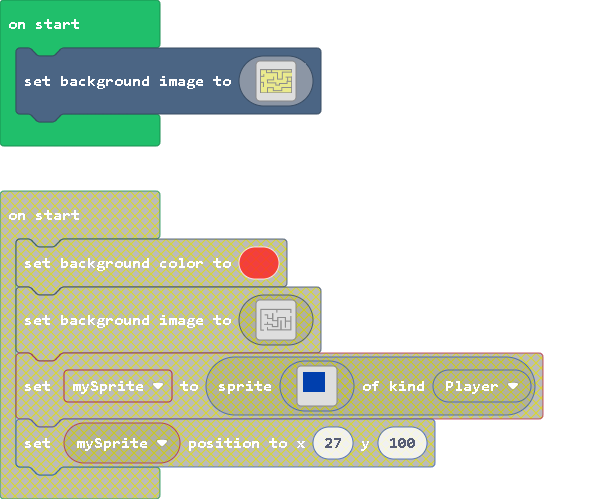
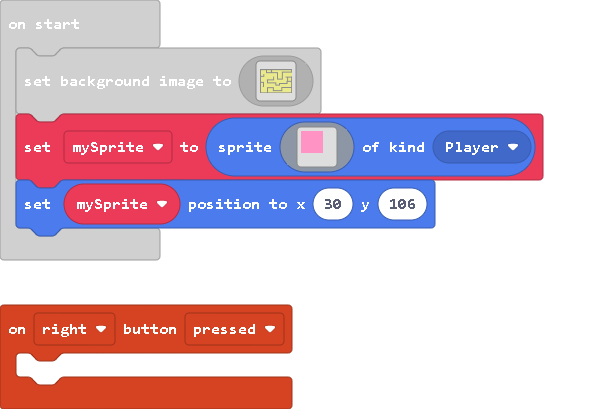
Update main.blocks, main.ts, images.g.jres, images.g.ts

diff --git a/images.g.ts b/images.g.ts
@@ -125,267 +125,23 @@ ffffffffffffffffffffffffffffffffffffffffffffffffffffffffffffffffffffffffffffffff
 ffffffffffffffffffffffffffffffffffffffffffffffffffffffffffffffffffffffffffffffffffffffffffffffffffffffffffffffffffffffffffffffffffffffffffffffffffffffffffffffff
 ffffffffffffffffffffffffffffffffffffffffffffffffffffffffffffffffffffffffffffffffffffffffffffffffffffffffffffffffffffffffffffffffffffffffffffffffffffffffffffffff
 `;
-            case "image2":return img`
-................................................................................................................................................................
-................................................................................................................................................................
-................................................................................................................................................................
-................................................................................................................................................................
-..fffffffffffffffffffffffffffffffffffffffffffffffffffffffffffffffffffffffffffffffffffffffffffffffffffffffffffffffffffffffffffffffffffffffffffffffffffffffffff...
-..fffffffffffffffffffffffffffffffffffffffffffffffffffffffffffffffffffffffffffffffffffffffffffffffffffffffffffffffffffffffffffffffffffffffffffffffffffffffffff...
-..fffffffffffffffffffffffffffffffffffffffffffffffffffffffffffffffffffffffffffffffffffffffffffffffffffffffffffffffffffffffffffffffffffffffffffffffffffffffffff...
-..fffffffffffffffffffffffffffffffffffffffffffffffffffffffffffffffffffffffffffffffffffffffffffffffffffffffffffffffffffffffffffffffffffffffffffffffffffffffffff...
-..fffffffffffffffffffffffffffffffffffffffffffffffffffffffffffffffffffffffffffffffffffffffffffffffffffffffffffffffffffffffffffffffffffffffffffffffffffffffffff...
-..fffffffffffffffffffffffffffffffffffffffffffffffffffffffffffffffffffffffffffffffffffffffffffffffffffffffffffffffffffffffffffffffffffffffffffffffffffffffffff...
-..fffff...........................................................................fffff.................................................................fffff...
-..fffff...........................................................................fffff.................................................................fffff...
-..fffff...........................................................................fffff.................................................................fffff...
-..fffff...........................................................................fffff.................................................................fffff...
-..fffff...........................................................................fffff.................................................................fffff...
-..fffff...........................................................................fffff.................................................................fffff...
-..fffff...........................................................................fffff.................................................................fffff...
-..fffff...........................................................................fffff.................................................................fffff...
-..fffff...........................................................................fffff.................................................................fffff...
-..fffff...........................................................................fffff.................................................................fffff...
-..fffff...........................................................................fffff.................................................................fffff...
-..fffff...........................................................................fffff.................................................................fffff...
-..fffff...........................................................................fffff.................................................................fffff...
-..fffff.................................................................................................................................................fffff...
-..fffff.................................................................................................................................................fffff...
-..fffff.........................................................................................................................................................
-..fffff.....................................................fffffff.............................................................................................
-..fffff.....................................................fffffff.............................................................................................
-..fffff.....................................................fffffff.............................................................................................
-..fffff.....................................................fffffff.............................................................................................
-..fffff.....................................................fffffff.............................................................................................
-..fffff.....................................................fffffff.............................................................................................
-..fffff................ffffffffffffffffff...................fffffff.............................................................................................
-..fffff................ffffffffffffffffff...................fffffff.............................................................................................
-..fffff................ffffffffffffffffff...................fffffff.............................................................................................
-..fffff................ffffffffffffffffff...................fffffff.............................................................................................
-..fffff................ffffffffffffffffff...................fffffff.............................................................................................
-..fffff.............................fffff...................fffffff.............................................................................................
-..fffff.............................fffff...................fffffff.............................................................................................
-..fffff.............................fffff...................fffffff.............................................................................................
-..fffff.............................fffff...................fffffff.....................................................................................fffff...
-..fffff.............................fffff...................fffffff.....................................................................................fffff...
-..fffff.............................fffff...................fffffff.....................................................................................fffff...
-..fffff.............................fffff...................fffffff.....................................................................................fffff...
-..fffff.............................fffff...................fffffff.....................................................................................fffff...
-..fffff.............................fffff...................fffffff...................ffffffffffffffffffffffffffffffffffffffffffff......................fffff...
-..fffff.............................fffff...................fffffff...................ffffffffffffffffffffffffffffffffffffffffffff......................fffff...
-..fffff.............................fffff...................fffffff...................ffffffffffffffffffffffffffffffffffffffffffff......................fffff...
-..fffff.............................fffff...................fffffff...................ffffffffffffffffffffffffffffffffffffffffffff......................fffff...
-..fffff.............................fffff...................fffffff...................ffffffffffffffffffffffffffffffffffffffffffff......................fffff...
-..fffff.............................fffffffffffffffffffffffffffffff...................ffffff................................ffffff......................fffff...
-..fffff.............................fffffffffffffffffffffffffffffff...................ffffff................................ffffff......................fffff...
-..fffff.............................fffffffffffffffffffffffffffffff...................ffffff................................ffffff......................fffff...
-..fffff.............................fffffffffffffffffffffffffffffff...................ffffff................................ffffff......................fffff...
-..fffff.............................fffffffffffffffffffffffffffffff...................ffffff................................ffffff......................fffff...
-..fffff......................................................ffffff...................ffffff................................ffffff......................fffff...
-..fffff......................................................ffffff...................ffffff................................ffffff......................fffff...
-..fffff......................................................ffffff...................ffffff................................ffffff......................fffff...
-..fffff......................................................ffffff...................ffffff................................ffffff......................fffff...
-..fffff......................................................ffffff...................ffffff................................ffffff......................fffff...
-..fffff......................................................ffffff...................ffffff................................ffffff......................fffff...
-..fffff......................................................fffffffffffffffffffffffffffffff................................ffffff......................fffff...
-..fffff......................................................fffffffffffffffffffffffffffffff..........ffffff................ffffff......................fffff...
-..fffff......................................................fffffffffffffffffffffffffffffff..........ffffff................fffffffffffffffffffffffffffffffff...
-..fffff......................................................fffffffffffffffffffffffffffffff..........ffffff................fffffffffffffffffffffffffffffffff...
-..fffff......................................................fffffffffffffffffffffffffffffff..........ffffff................fffffffffffffffffffffffffffffffff...
-..fffff...............................................................................ffffff..........ffffff................fffffffffffffffffffffffffffffffff...
-..fffff...............................................................................ffffff..........ffffff................fffffffffffffffffffffffffffffffff...
-..fffff...............................................................................ffffff..........ffffff................ffffff......................fffff...
-..fffff............................fffff..............................................ffffff..........ffffff................ffffff......................fffff...
-..fffff............................fffff..............................................ffffff..........ffffff................ffffff......................fffff...
-..fffff............................fffff..............................................ffffff..........ffffff................ffffff......................fffff...
-..fffff............................fffff..............................................ffffff..........ffffff................ffffff......................fffff...
-..fffff............................fffff..............................................ffffff..........ffffff................ffffff......................fffff...
-..fffff............................fffff..............................................ffffff..........ffffff................ffffff......................fffff...
-..fffff............................fffff..............................................ffffff..........ffffff................ffffff......................fffff...
-..fffff............................fffff..............................................ffffff..........ffffff................ffffff......................fffff...
-..fffff............................fffff..............................................ffffff..........ffffff................ffffff......................fffff...
-..fffff............................fffff..............................................ffffff..........ffffff................ffffff......................fffff...
-..fffff..............ffffffffffffffffffffffffffffffffffffffffffff.....................ffffff..........ffffff................ffffff......................fffff...
-..fffff..............ffffffffffffffffffffffffffffffffffffffffffff.....................ffffff..........ffffff................ffffff......................fffff...
-..fffff..............ffffffffffffffffffffffffffffffffffffffffffff.....................ffffff..........ffffff................ffffff......................fffff...
-..fffff..............ffffffffffffffffffffffffffffffffffffffffffff.....................ffffff..........ffffff................ffffff......................fffff...
-..fffff..............ffffffffffffffffffffffffffffffffffffffffffff.....................ffffff..........ffffff................ffffff......................fffff...
-..fffff....................................................ffffff.....................ffffff..........ffffff................ffffff......................fffff...
-..fffff....................................................ffffff.....................ffffff..........ffffff................ffffff......................fffff...
-..fffff....................................................ffffff.....................ffffff..........ffffff................ffffff......................fffff...
-..fffff....................................................ffffff.....................ffffff..........ffffff................ffffff......................fffff...
-..fffff....................................................ffffff.....................ffffff..........ffffff................ffffff......................fffff...
-..fffff....................................................ffffff.....................ffffff..........ffffff................ffffff......................fffff...
-..fffff....................................................fffffffffffffffffffffffffffffffff..........ffffff................ffffff......................fffff...
-..fffff....................................................fffffffffffffffffffffffffffffffff..........ffffff................ffffff......................fffff...
-..fffff....................................................fffffffffffffffffffffffffffffffff..........ffffff................ffffff......................fffff...
-..fffff....................................................fffffffffffffffffffffffffffffffff..........ffffff................ffffff......................fffff...
-..fffff....................................................fffffffffffffffffffffffffffffffff..........ffffff................ffffff......................fffff...
-..fffff....................................................fffffffffffffffffffffffffffffffff..........ffffff................ffffff......................fffff...
-..fffff............................fffff..............................................................ffffff................ffffff......................fffff...
-..fffff............................fffff..............................................................ffffff................ffffff......................fffff...
-..fffff............................fffff..............................................................ffffff............................................fffff...
-..fffff............................fffff..............................................................ffffff............................................fffff...
-..fffff............................fffff..............................................................ffffff............................................fffff...
-..fffff............................fffff..............................................................ffffff............................................fffff...
-..fffff............................fffff..............................................................ffffff............................................fffff...
-..fffff............................fffff..............................................................ffffff............................................fffff...
-..fffff............................fffff..............................................................ffffff............................................fffff...
-..fffff............................fffff..............................................................ffffff............................................fffff...
-..fffff............................fffff..............................................................ffffff............................................fffff...
-..fffff............................ffffffffffffffffffffffffffffffffffffffffffffffffffffffffffffffffffffffffffffffffffffffffffffffffffffffffffffffffffffffffff...
-..ffffffffffffffffff...............ffffffffffffffffffffffffffffffffffffffffffffffffffffffffffffffffffffffffffffffffffffffffffffffffffffffffffffffffffffffffff...
-..ffffffffffffffffff...............ffffffffffffffffffffffffffffffffffffffffffffffffffffffffffffffffffffffffffffffffffffffffffffffffffffffffffffffffffffffffff...
-..ffffffffffffffffff...............ffffffffffffffffffffffffffffffffffffffffffffffffffffffffffffffffffffffffffffffffffffffffffffffffffffffffffffffffffffffffff...
-..ffffffffffffffffff...............ffffffffffffffffffffffffffffffffffffffffffffffffffffffffffffffffffffffffffffffffffffffffffffffffffffffffffffffffffffffffff...
-..ffffffffffffffffff............................................................................................................................................
-................................................................................................................................................................
-................................................................................................................................................................
-................................................................................................................................................................
-................................................................................................................................................................
-................................................................................................................................................................
-................................................................................................................................................................
-................................................................................................................................................................
-`;
-            case "image3":return img`
-. . . . . . . . . . . . . . . . 
-. 8 8 8 8 8 8 8 8 8 8 8 . . . . 
-. 8 8 8 8 8 8 8 8 8 8 8 . . . . 
-. 8 8 8 8 8 8 8 8 8 8 8 . . . . 
-. 8 8 8 8 8 8 8 8 8 8 8 . . . . 
-. 8 8 8 8 8 8 8 8 8 8 8 . . . . 
-. 8 8 8 8 8 8 8 8 8 8 8 . . . . 
-. 8 8 8 8 8 8 8 8 8 8 8 . . . . 
-. 8 8 8 8 8 8 8 8 8 8 8 . . . . 
-. 8 8 8 8 8 8 8 8 8 8 8 . . . . 
-. 8 8 8 8 8 8 8 8 8 8 8 . . . . 
+            case "image5":return img`
+3 3 3 3 3 3 3 3 3 3 3 . . . . . 
+3 3 3 3 3 3 3 3 3 3 3 . . . . . 
+3 3 3 3 3 3 3 3 3 3 3 . . . . . 
+3 3 3 3 3 3 3 3 3 3 3 . . . . . 
+3 3 3 3 3 3 3 3 3 3 3 . . . . . 
+3 3 3 3 3 3 3 3 3 3 3 . . . . . 
+3 3 3 3 3 3 3 3 3 3 3 . . . . . 
+3 3 3 3 3 3 3 3 3 3 3 . . . . . 
+3 3 3 3 3 3 3 3 3 3 3 . . . . . 
+3 3 3 3 3 3 3 3 3 3 3 . . . . . 
+3 3 3 3 3 3 3 3 3 3 3 . . . . . 
 . . . . . . . . . . . . . . . . 
 . . . . . . . . . . . . . . . . 
 . . . . . . . . . . . . . . . . 
 . . . . . . . . . . . . . . . . 
 . . . . . . . . . . . . . . . . 
-`;
-            case "image4":return img`
-ffffffffffffffffffffffffffffffffffffffffffffffffffffffffffffffffffffffffffffffffffffffffffffffffffffffffffffffffffffffffffffffffffffffffffffffffffffffffffffffff
-ffffffffffffffffffffffffffffffffffffffffffffffffffffffffffffffffffffffffffffffffffffffffffffffffffffffffffffffffffffffffffffffffffffffffffffffffffffffffffffffff
-ffffffffffffffffffffffffffffffffffffffffffffffffffffffffffffffffffffffffffffffffffffffffffffffffffffffffffffffffffffffffffffffffffffffffffffffffffffffffffffffff
-ffffffffffffffffffffffffffffffffffffffffffffffffffffffffffffffffffffffffffffffffffffffffffffffffffffffffffffffffffffffffffffffffffffffffffffffffffffffffffffffff
-ffffffffffffffffffffffffffffffffffffffffffffffffffffffffffffffffffffffffffffffffffffffffffffffffffffffffffffffffffffffffffffffffffffffffffffffffffffffffffffffff
-ffffffffffffffffffffffffffffffffffffffffffffffffffffffffffffffffffffffffffffffffffffffffffffffffffffffffffffffffffffffffffffffffffffffffffffffffffffffffffffffff
[111 lines of base64/hex data omitted]
-ffffffffffffffffffffffffffffffffffffffffffffffffffffffffffffffffffffffffffffffffffffffffffffffffffffffffffffffffffffffffffffffffffffffffffffffffffffffffffffffff
-ffffffffffffffffffffffffffffffffffffffffffffffffffffffffffffffffffffffffffffffffffffffffffffffffffffffffffffffffffffffffffffffffffffffffffffffffffffffffffffffff
-ffffffffffffffffffffffffffffffffffffffffffffffffffffffffffffffffffffffffffffffffffffffffffffffffffffffffffffffffffffffffffffffffffffffffffffffffffffffffffffffff
 `;
         }
         return null;

diff --git a/main.ts b/main.ts
@@ -1,3 +1,6 @@
+controller.right.onEvent(ControllerButtonEvent.Pressed, function () {
+	
+})
 scene.setBackgroundImage(img`
     ffffffffffffffffffffffffffffffffffffffffffffffffffffffffffffffffffffffffffffffffffffffffffffffffffffffffffffffffffffffffffffffffffffffffffffffffffffffffffffffff
     ffffffffffffffffffffffffffffffffffffffffffffffffffffffffffffffffffffffffffffffffffffffffffffffffffffffffffffffffffffffffffffffffffffffffffffffffffffffffffffffff
@@ -120,3 +123,22 @@ scene.setBackgroundImage(img`
     ffffffffffffffffffffffffffffffffffffffffffffffffffffffffffffffffffffffffffffffffffffffffffffffffffffffffffffffffffffffffffffffffffffffffffffffffffffffffffffffff
     ffffffffffffffffffffffffffffffffffffffffffffffffffffffffffffffffffffffffffffffffffffffffffffffffffffffffffffffffffffffffffffffffffffffffffffffffffffffffffffffff
     `)
+let mySprite = sprites.create(img`
+    3 3 3 3 3 3 3 3 3 3 3 . . . . . 
+    3 3 3 3 3 3 3 3 3 3 3 . . . . . 
+    3 3 3 3 3 3 3 3 3 3 3 . . . . . 
+    3 3 3 3 3 3 3 3 3 3 3 . . . . . 
+    3 3 3 3 3 3 3 3 3 3 3 . . . . . 
+    3 3 3 3 3 3 3 3 3 3 3 . . . . . 
+    3 3 3 3 3 3 3 3 3 3 3 . . . . . 
+    3 3 3 3 3 3 3 3 3 3 3 . . . . . 
+    3 3 3 3 3 3 3 3 3 3 3 . . . . . 
+    3 3 3 3 3 3 3 3 3 3 3 . . . . . 
+    3 3 3 3 3 3 3 3 3 3 3 . . . . . 
+    . . . . . . . . . . . . . . . . 
+    . . . . . . . . . . . . . . . . 
+    . . . . . . . . . . . . . . . . 
+    . . . . . . . . . . . . . . . . 
+    . . . . . . . . . . . . . . . . 
+    `, SpriteKind.Player)
+mySprite.setPosition(30, 106)
